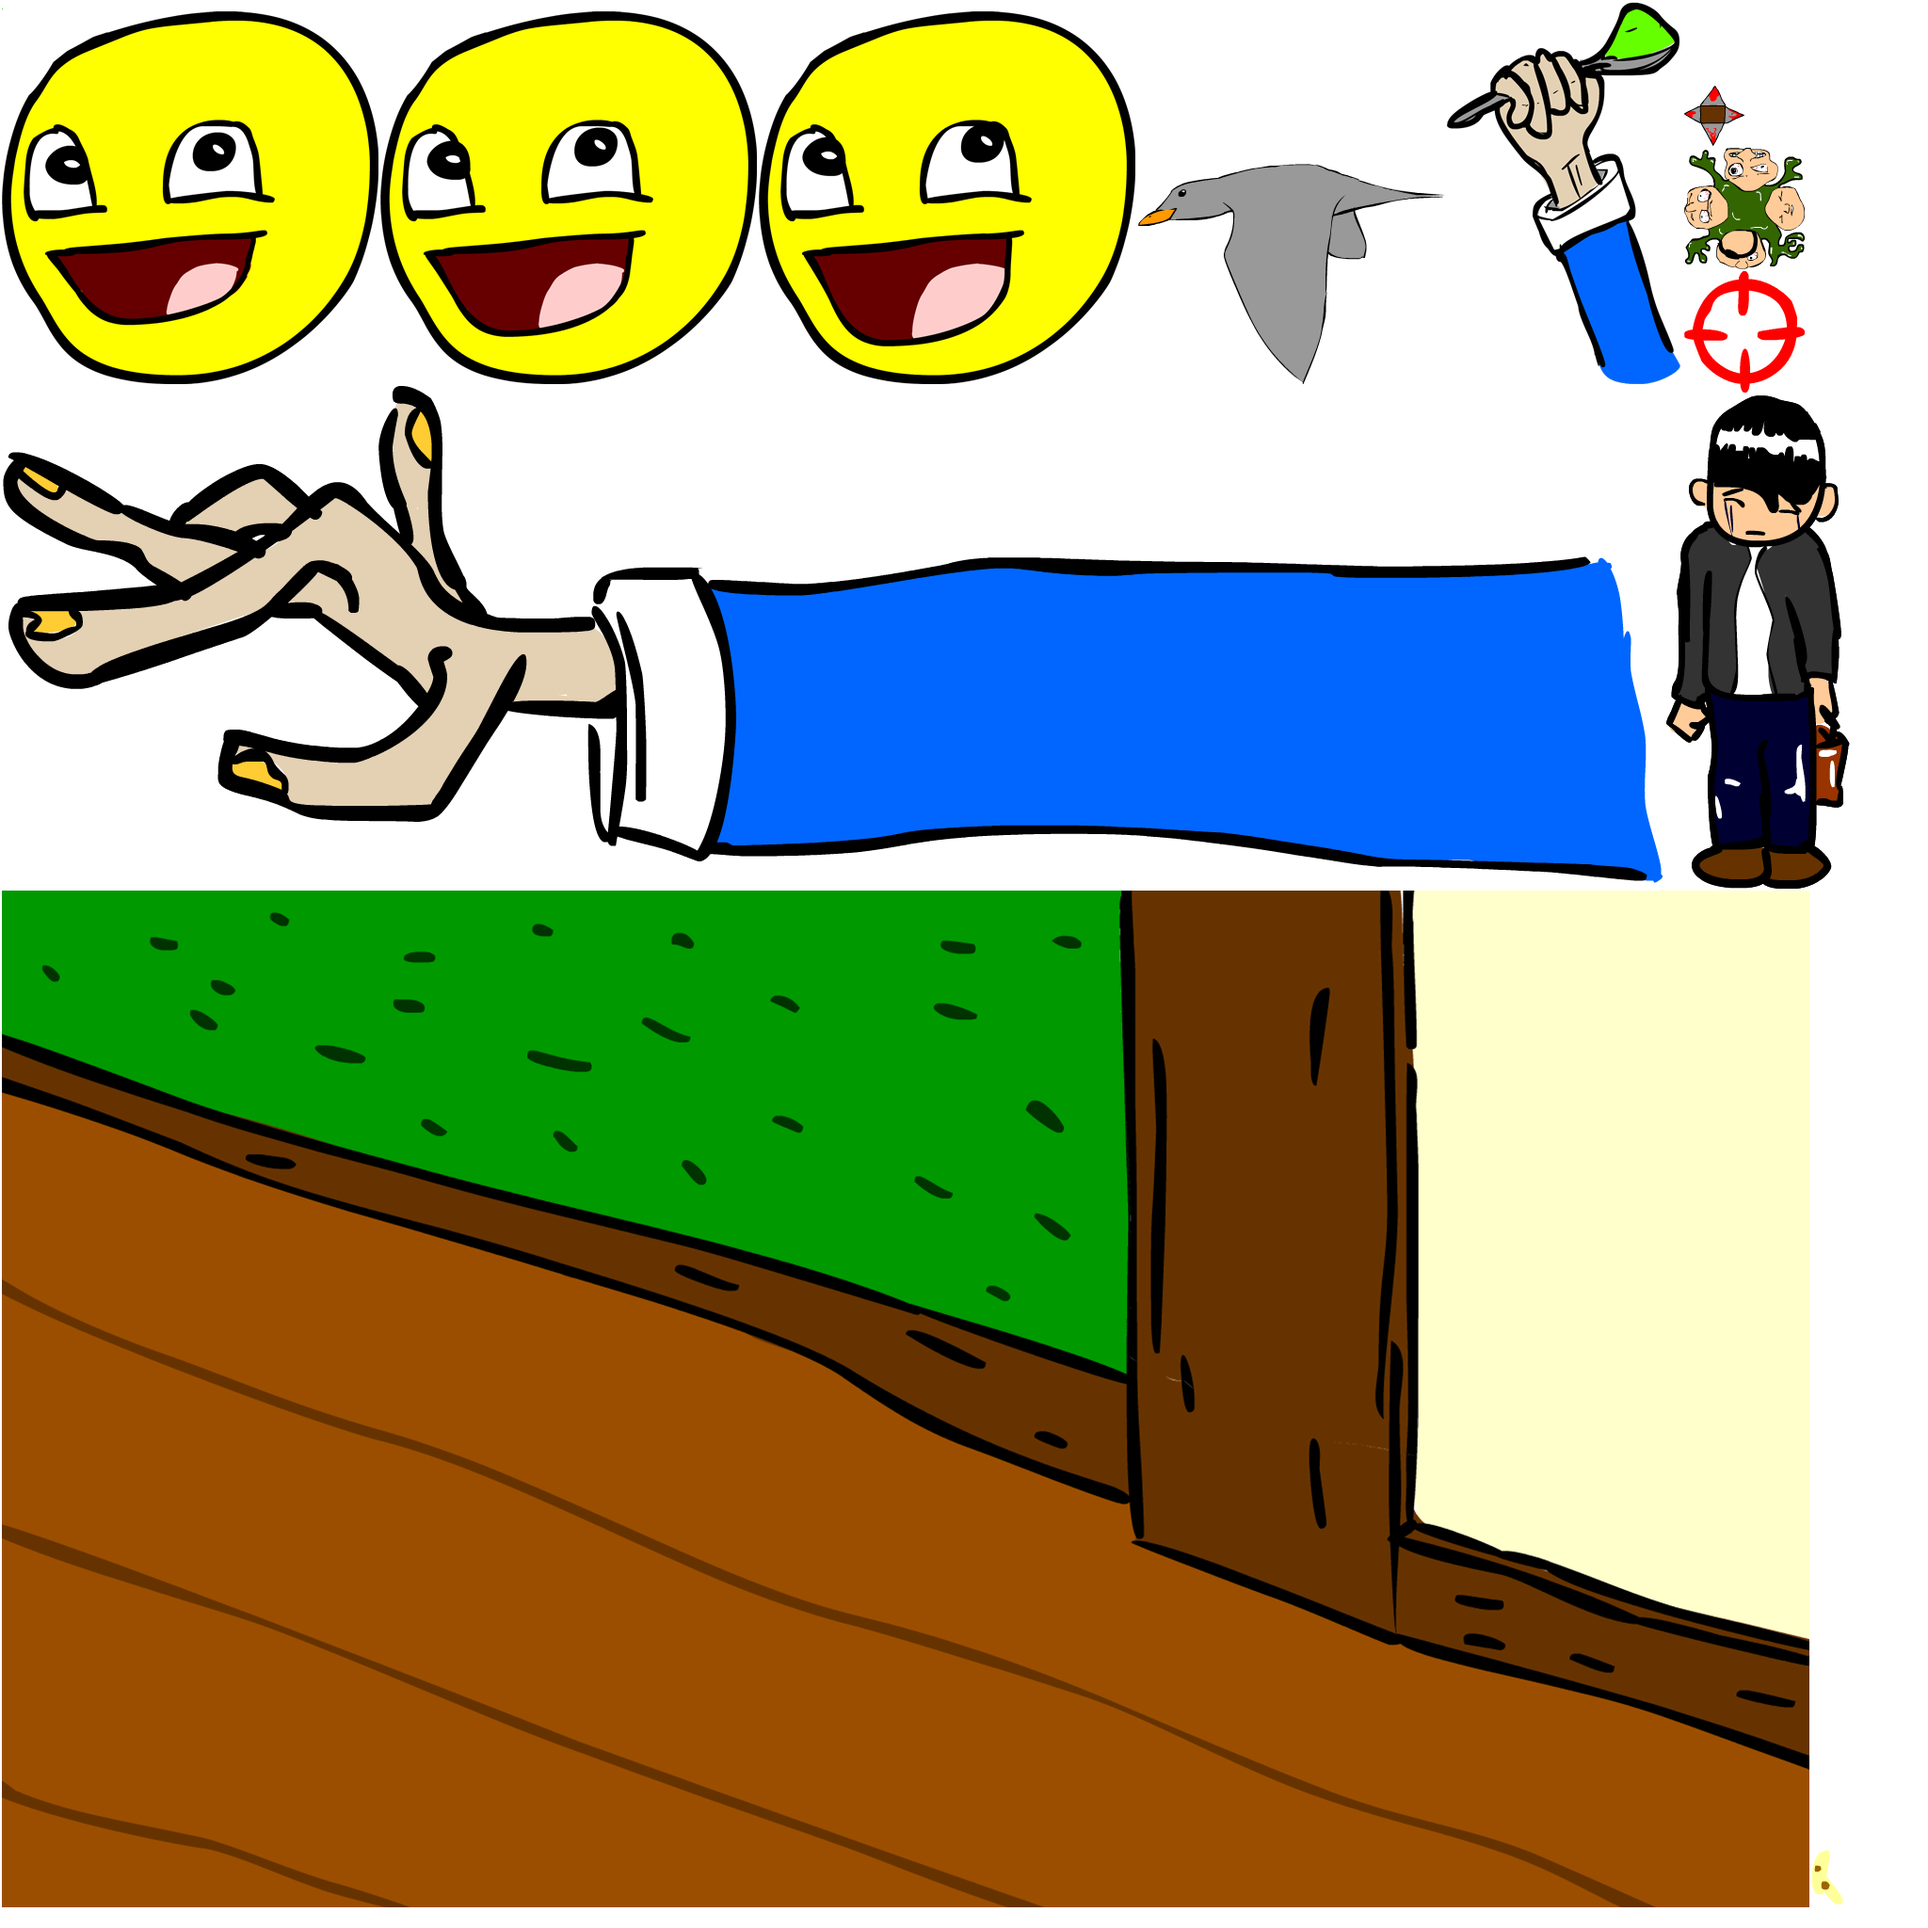
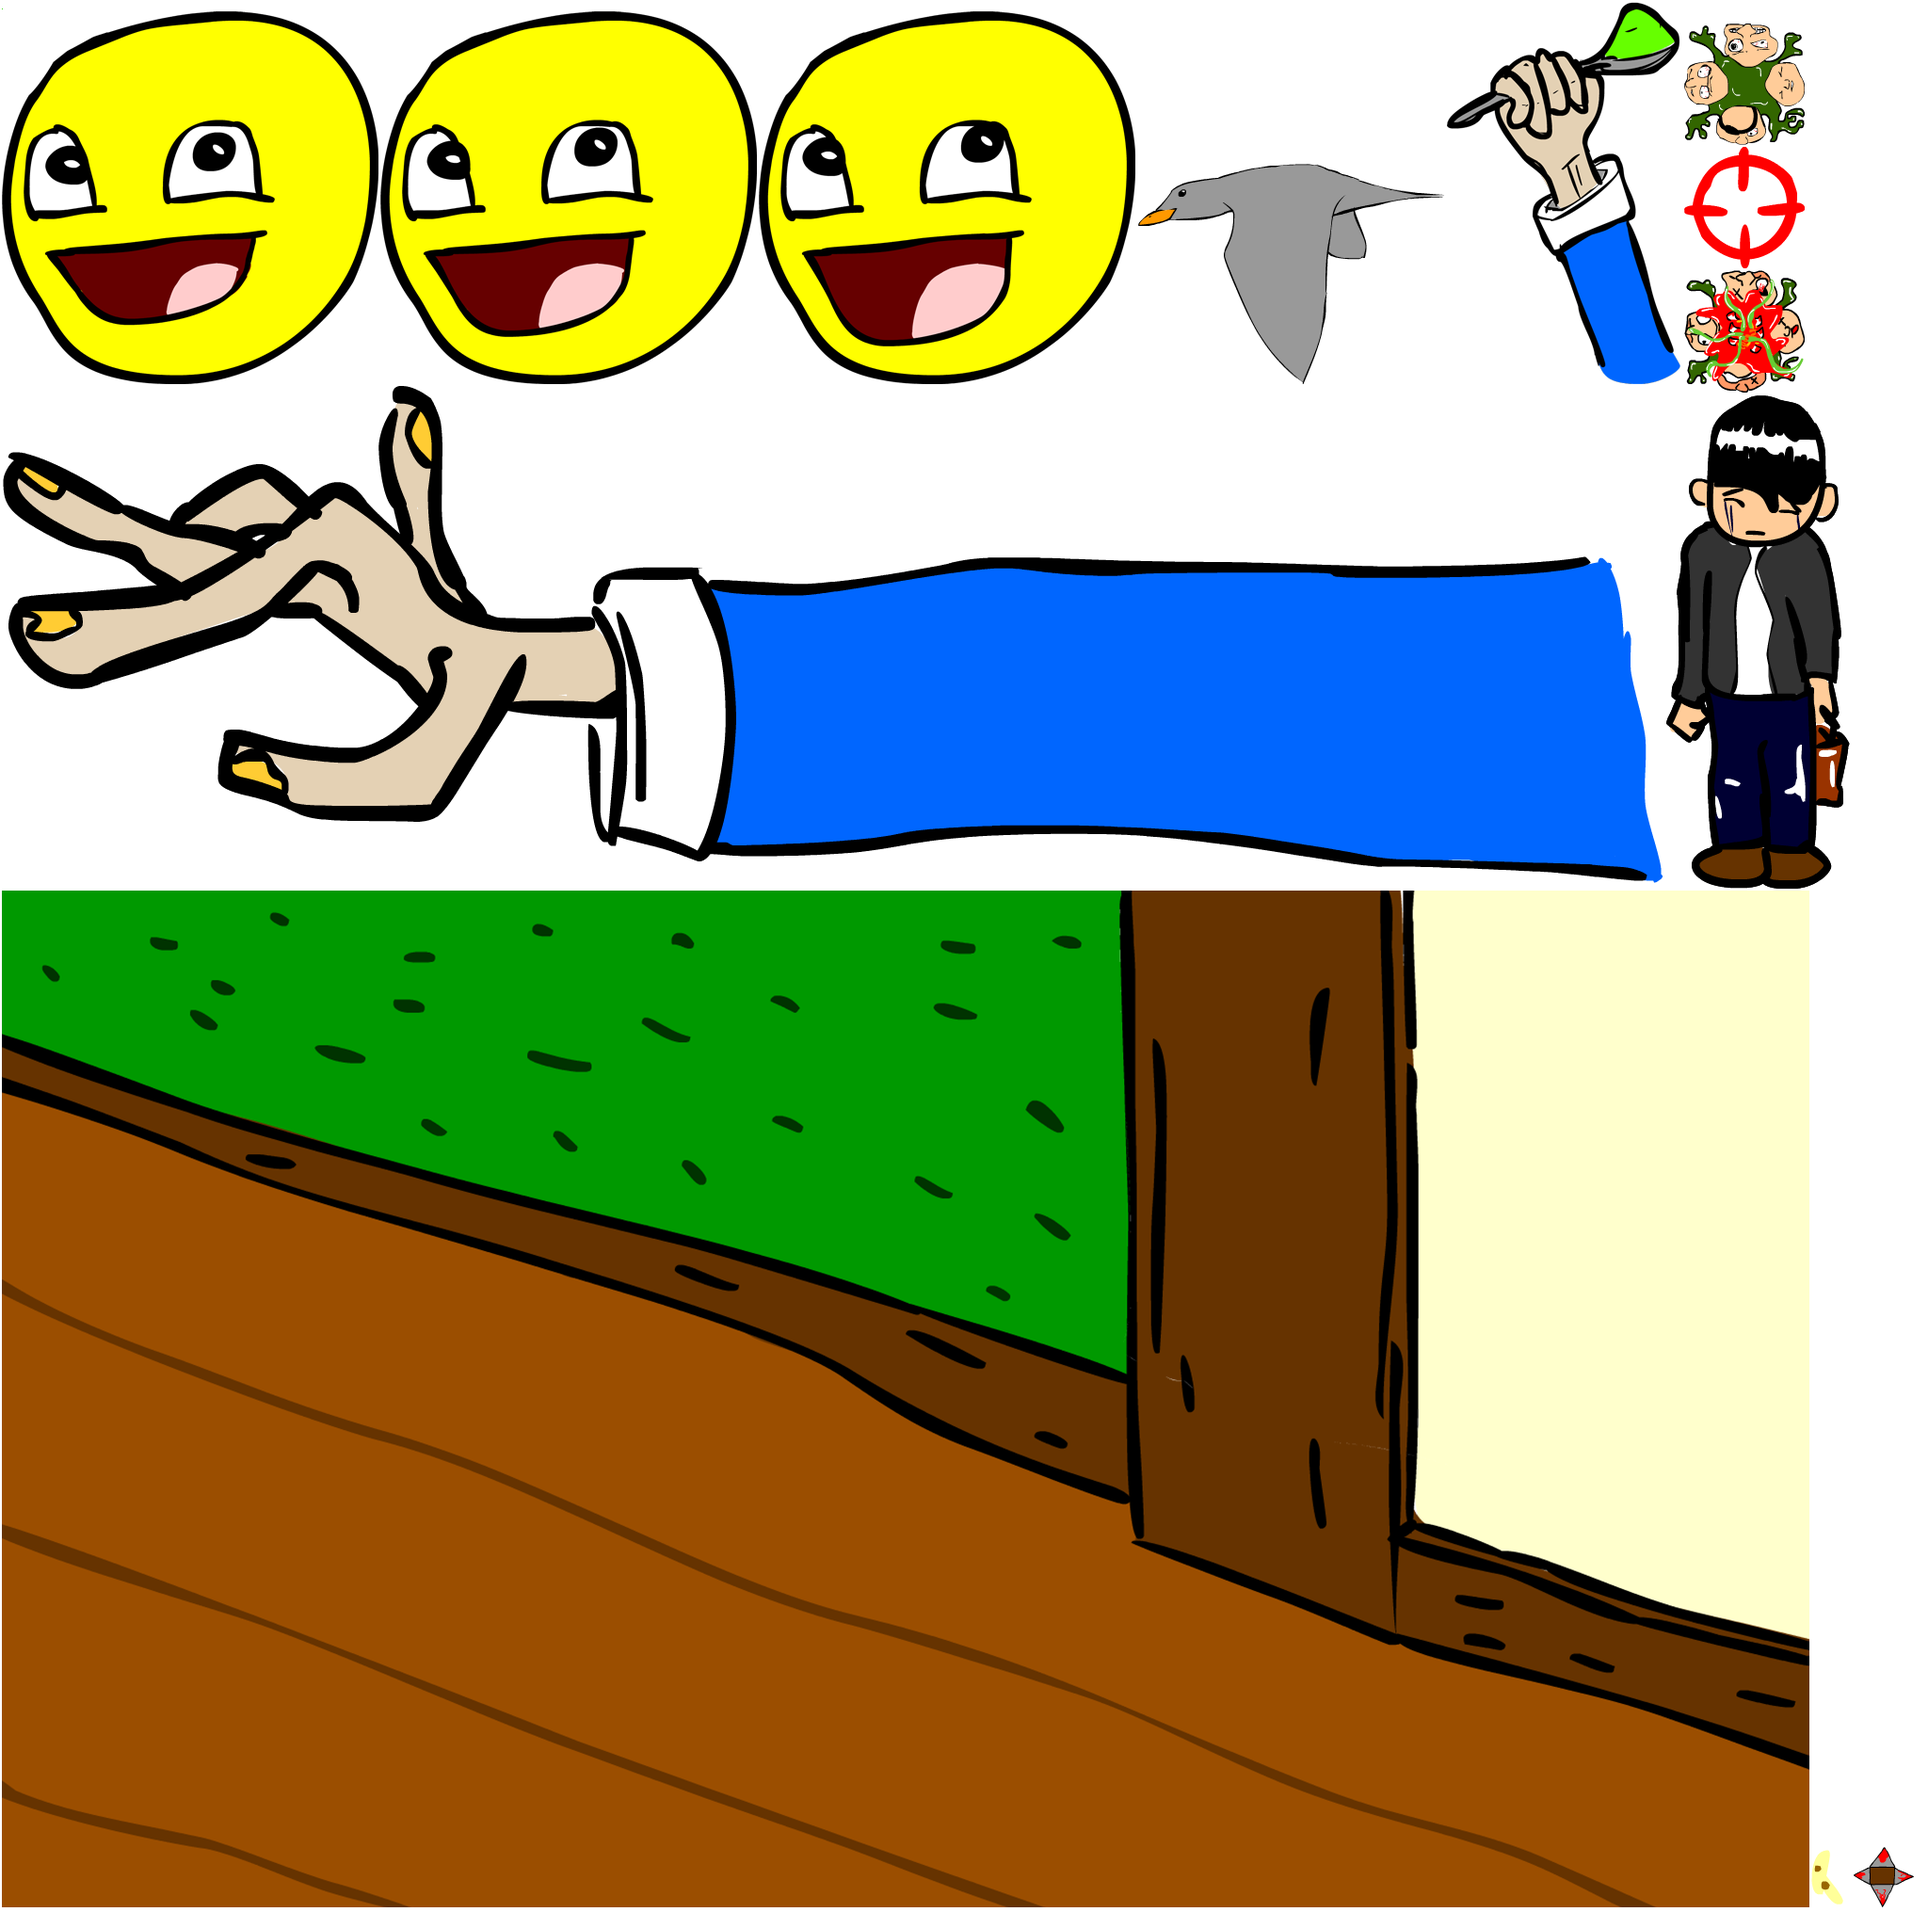
DONE

Changed region(s): [[0.875, 0.0, 0.9375, 0.2188], [0.9688, 0.9688, 1.0, 1.0]]

diff --git a/core/src/no/wafflewings/limitcurse/LimitCurse.java b/core/src/no/wafflewings/limitcurse/LimitCurse.java
@@ -3,6 +3,7 @@ package no.wafflewings.limitcurse;
 import java.awt.Font;
 import java.lang.Thread.State;
 import java.util.ArrayList;
+import java.util.Collections;
 
 import aurelienribon.tweenengine.Tween;
 import aurelienribon.tweenengine.TweenManager;
@@ -69,9 +70,10 @@ public class LimitCurse extends Game {
 	int gamesCompleted = 0;
 	int lifes;
 	float survivalTime = 0;
-	
+	float allTimer = 0;
 	Sound fanfare;
 	BitmapFont font;
+	Animation title;
 	
 	
 	public LimitCurse() {
@@ -83,44 +85,42 @@ public class LimitCurse extends Game {
 	int start = 0;
 	@Override
 	public void create () {
+		//Gdx.graphics.setDisplayMode(Gdx.graphics.getDesktopDisplayMode().width, Gdx.graphics.getDesktopDisplayMode().height, true);
 		atlas = new TextureAtlas(Gdx.files.internal("game.atlas"));
 		cam = new OrthographicCamera();
 		viewport = new FitViewport(W, H, cam);
 		batch = new SpriteBatch();
-		background = atlas.createSprite("haha");
+		background = atlas.createSprite("title_bg");
 		background.setSize(W, H);
 		background.setPosition(-W/2, -H/2);
 		font = new BitmapFont();
-//		minigames.add(new WakeUpCall());
-//		minigames.add(new SpoonFed());
-//		minigames.add(new FootPain());
-//		minigames.add(new BusStop());
-//		minigames.add(new FlappyBird());
-//		minigames.add(new Labyrinth());
+		minigames.add(new WakeUpCall());
+		minigames.add(new SpoonFed());
+		minigames.add(new FootPain());
+		minigames.add(new BusStop());
+		minigames.add(new FlappyBird());
+		minigames.add(new Labyrinth());
 		minigames.add(new Shoot());
-//		
-		int FRAME_COLS = 5;
-		int FRAME_ROWS = 5;
-        Texture walkSheet = new Texture(Gdx.files.internal("nuclear.png")); // #9
-        TextureRegion[][] tmp = TextureRegion.split(walkSheet, walkSheet.getWidth()/FRAME_COLS, walkSheet.getHeight()/FRAME_ROWS);              // #10
-        TextureRegion[] walkFrames = new TextureRegion[FRAME_COLS * FRAME_ROWS];
-        int index = 0;
-        for (int i = 0; i < FRAME_ROWS; i++) {
-            for (int j = 0; j < FRAME_COLS; j++) {
-                walkFrames[index++] = tmp[i][j];
-            }
-        }
-        explosion = new Animation(1/25.0f, walkFrames);      // #11
+		
+        TextureRegion[] expFrames = new TextureRegion[4];
+        expFrames[0] = atlas.findRegion("explosion01");
+        expFrames[1] = atlas.findRegion("explosion02");
+        expFrames[2] = atlas.findRegion("explosion03");
+        expFrames[3] = atlas.findRegion("explosion04");
+        
+        explosion = new Animation(1/5.0f, expFrames);      // #11
         
         Array<AtlasRegion> arr = atlas.findRegions("awesome");
-        
-        Texture well = new Texture(Gdx.files.internal("smiley.png"));
-        
         TextureRegion[] tr = new TextureRegion[arr.size];
         for (int i = 0; i < tr.length; i++) {
 			tr[i] = arr.get(i);
 		}
         welldone = new Animation(1/3.0f, tr);
+        
+        TextureRegion[] titlea = new TextureRegion[2];
+        titlea[0] = atlas.findRegion("title01");
+        titlea[1] = atlas.findRegion("title02");
+        title = new Animation(1/10.0f, titlea);
 		
         barCover = atlas.findRegion("bar");
         greenBar = new Sprite(atlas.findRegion("green"));
@@ -136,7 +136,7 @@ public class LimitCurse extends Game {
 	@Override
 	public void render () {
 		float dt = Math.min(Gdx.graphics.getDeltaTime(), 1 / 60f);
-		
+		allTimer += dt;
 		dt*=speed;
 		Gdx.gl.glClearColor(1, 1, 1, 1);
 		Gdx.gl.glClear(GL20.GL_COLOR_BUFFER_BIT);
@@ -223,9 +223,12 @@ public class LimitCurse extends Game {
 	private void startRender(float dt) {
 		batch.begin();
 		background.draw(batch);
+		int tw = 897/2;
+		int th = 660/2;
+		batch.draw(title.getKeyFrame(allTimer, true), -tw/2, H/2-th, tw, th);  // #16
 		font.setColor(Color.WHITE);
-		font.setScale(4);
-		font.draw(batch, "Use Space and arrows", -font.getBounds("Use space and arrows").width/2, 0);
+		font.setScale(3.5f);
+		font.draw(batch, "Use Space and arrows", -font.getBounds("Use space and arrows").width/2, -H/2 + font.getBounds("Use space and arrows").height+1);
 		batch.end();
 		if(Gdx.input.isKeyPressed(Keys.SPACE)){
 			lifes = 1;
@@ -256,13 +259,11 @@ public class LimitCurse extends Game {
 				endText = current.getFailText();
 			}
 		}
-		Minigame temp = current;
-		int i = 0;
-		while(current == temp && i < 10) {
-			i++;
-			current = minigames.get(MathUtils.random(minigames.size()-1));
-		}
+		current = minigames.get(gameIndex);
 		gameIndex++;
+		if(gameIndex == minigames.size()) {
+			Collections.shuffle(minigames);
+		}
 		gameIndex = gameIndex == minigames.size() ? 0 : gameIndex;
 		current.reset();
 		current.create(tm);

diff --git a/core/src/no/wafflewings/limitcurse/Labyrinth.java b/core/src/no/wafflewings/limitcurse/Labyrinth.java
@@ -28,18 +28,19 @@ public class Labyrinth extends Minigame implements InputProcessor{
 	float speed = 200;
 	float doneTimer = 0;
 	boolean goal = false;
-	float mapsize = 14;
-	float tilesize = 30;
+	float mapsize = 6;
+	float tilesize = 60;
 	float mapx = -(tilesize * mapsize)/2;
 	float mapy = -(tilesize * mapsize)/2;
 	int goalx, goaly;
+	boolean dead;
 	public Labyrinth() {
 		background = LimitCurse.atlas.createSprite("floor");
 		wall = LimitCurse.atlas.createSprite("pigg");
 		player = LimitCurse.atlas.createSprite("monster");
 		pos = new Vector2();
 		newpos = new Vector2();
-		snap = Gdx.audio.newSound(Gdx.files.internal("sounds/foot_snap.mp3"));
+		snap = Gdx.audio.newSound(Gdx.files.internal("sounds/splat.wav"));
 		map = new boolean[(int)mapsize][(int)mapsize];
 	}
 	
@@ -64,7 +65,7 @@ public class Labyrinth extends Minigame implements InputProcessor{
 		player.setSize(50, 50);
 		player.setPosition(0, 0);
 		player.setOriginCenter();
-		wall.setSize(30, 30);
+		wall.setSize(tilesize, tilesize);
 		Gdx.input.setInputProcessor(this);
 		doneTimer = 0;
 		goal = false;
@@ -77,9 +78,11 @@ public class Labyrinth extends Minigame implements InputProcessor{
 			map[0][i] = true;
 			map[map.length-1][i] = true;
 		}
-		
+		background.setSize(W, H);
+		background.setPosition(-W/2, -H/2);
 		goalx = MathUtils.random(1, map.length-2);
 		goaly = MathUtils.random(1)>0 ? map.length-1 : 0;
+		dead = false;
 	}
 
 	@Override
@@ -97,11 +100,9 @@ public class Labyrinth extends Minigame implements InputProcessor{
 				if(map[i][j]){
 					wall.setPosition(i*tilesize + mapx, j*tilesize + mapy);
 					if(i == goalx && j == goaly) {
-						wall.setColor(1, 0.5f, 0, 1);
 					}else{
-						wall.setColor(1, 1, 1, 1);
+						wall.draw(sb);
 					}
-					wall.draw(sb);
 				}
 			}
 		}
@@ -121,14 +122,19 @@ public class Labyrinth extends Minigame implements InputProcessor{
 		}else if(Gdx.input.isKeyPressed(Keys.RIGHT)){
 			newpos.add(cspeed, 0);
 		}
-		int x = (int)((newpos.x + (mapsize * tilesize)/2)/ 30);
-		int y = (int)((newpos.y + (mapsize * tilesize)/2)/ 30);
+		int x = (int)((newpos.x + (mapsize * tilesize)/2)/ tilesize);
+		int y = (int)((newpos.y + (mapsize * tilesize)/2)/ tilesize);
 		//Gdx.app.log("map", "mapx: " + x + " mapy: " + y);
-		if(!goal && y>=0 && y<map.length && x>=0 && x < map.length && !map[x][y]){
+		if(!dead && !goal && y>=0 && y<map.length && x>=0 && x < map.length && !map[x][y]){
 			player.setPosition(newpos.x-player.getWidth() / 2, newpos.y - player.getHeight() / 2);
-		}
-		if(x == goalx && y == goaly){
-			goal = true;
+		}else{
+			if(x == goalx && y == goaly){
+				goal = true;
+			}else if(!dead){
+				player.setRegion(LimitCurse.atlas.findRegion("monster_splatted"));
+				dead = true;
+				snap.play();
+			}
 		}
 		
 		if(doneTimer > 1) {

diff --git a/core/src/no/wafflewings/limitcurse/Shoot.java b/core/src/no/wafflewings/limitcurse/Shoot.java
@@ -64,6 +64,8 @@ public class Shoot extends Minigame implements InputProcessor{
 						   MathUtils.random(-H/2 + 100, H/2 - 100));
 		doneTimer = 0;
 		hit = false;
+
+		target.setRegion(LimitCurse.atlas.findRegion("monster"));
 	}
 
 	@Override
@@ -114,6 +116,7 @@ public class Shoot extends Minigame implements InputProcessor{
 			shot.play(0.5f);
 			pos.set(cursor.getX() + cursor.getWidth()/2, cursor.getY() + cursor.getHeight()/2);
 			if(target.getBoundingRectangle().contains(pos) && !hit){
+				target.setRegion(LimitCurse.atlas.findRegion("monster_splatted"));
 				hit = true;
 				shot.play();
 			}

diff --git a/desktop/src/no/wafflewings/limitcurse/desktop/DesktopLauncher.java b/desktop/src/no/wafflewings/limitcurse/desktop/DesktopLauncher.java
@@ -12,6 +12,7 @@ public class DesktopLauncher {
 		LwjglApplicationConfiguration config = new LwjglApplicationConfiguration();
 		config.width = 800;
 		config.height = 480;
+		//config.fullscreen = true;
 		Settings settings = new Settings();
         settings.maxWidth = 2048;
         settings.maxHeight = 2048;
